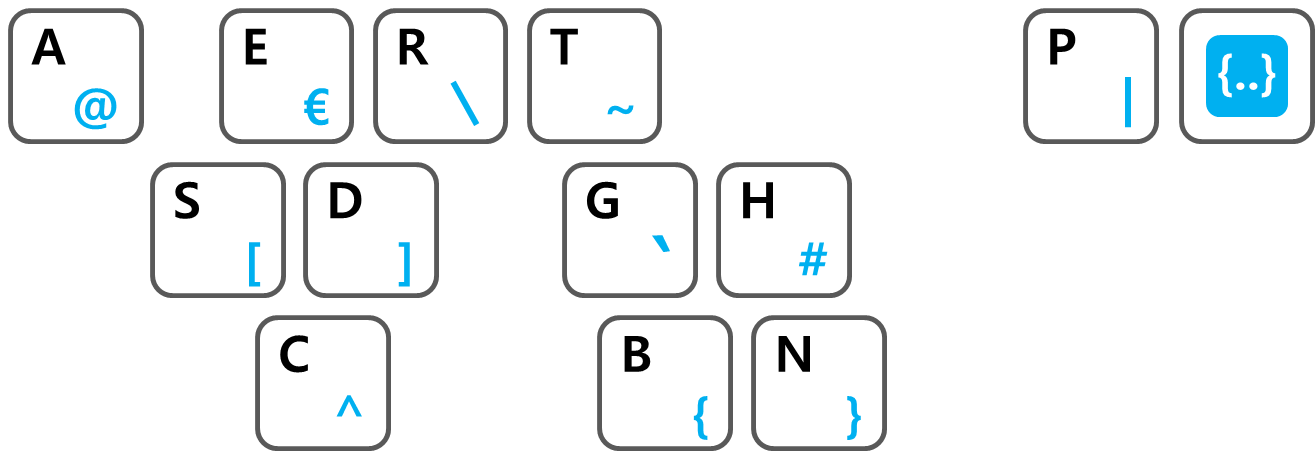
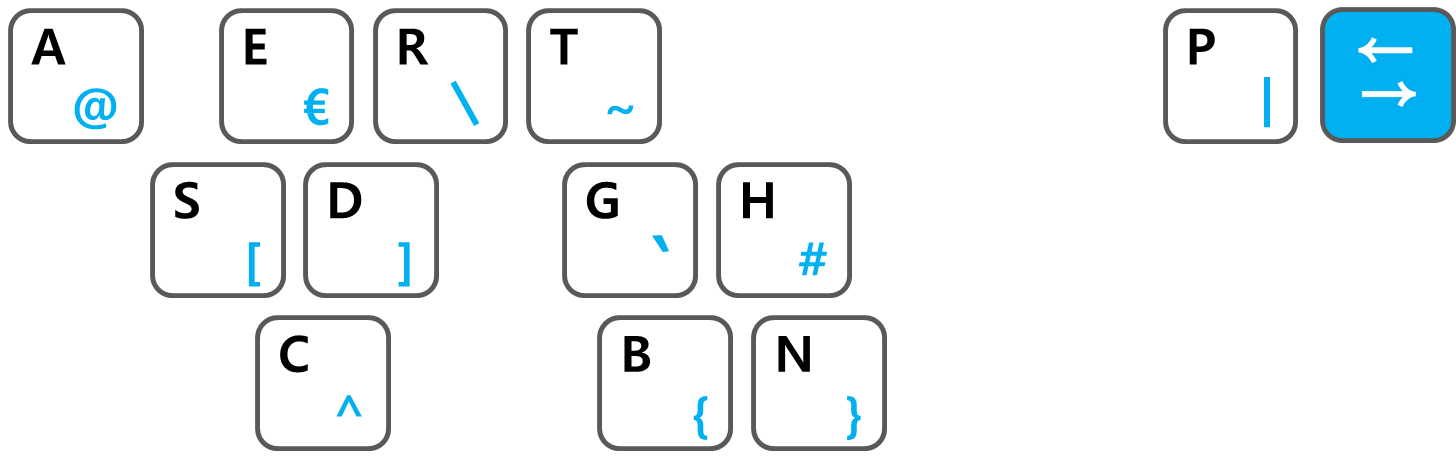
Add files via upload

diff --git a/index.html b/index.html
@@ -367,12 +367,12 @@ Si la transformation n’est pas souhaitée, appuyez simplement une fois sur Ret
       <div class="frame">
         <img class="keyIcon" src="img/dev.png" alt="q ligature key">
         <h3 class="hd">Caractères spéciaux mémorisables</h3>
-        <p class="sub">Appuyez sur la touche {..}, puis sur la touche du symbole souhaité.<br><small></small>
+        <p class="sub">Appuyez sur la touche fléchée, puis sur la touche du symbole souhaité.<br><small></small>
 		Disposition selon l’initiale de chaque alias – facile à mémoriser</p>
         <div class="rule">
           <svg class="check" viewBox="0 0 24 24" xmlns="http://www.w3.org/2000/svg"><path fill="#10b981" d="M9 16.2 4.8 12l-1.4 1.4L9 19 21 7l-1.4-1.4z"/></svg>
           <div class="ruleText">
-            Un double appui sur la touche {..} affichera la carte des touches.<br>
+            Un double appui sur la touche fléchée affichera la carte des touches.<br>
 			Désormais, tapez les symboles spéciaux sans Alt Gr.
           </div>
         </div>
@@ -434,7 +434,7 @@ Si la transformation n’est pas souhaitée, appuyez simplement une fois sur Ret
 <section id="demo">
   <div class="demoWrap">
     <div class="demoTop">
-      <div class="brand">SuperAzerty<small> Accents, chiffres, symboles et même emojis</small></div>
+      <div class="brand">SuperAzerty<small> Votre AZERTY est désormais SuperAZERTY.</small></div>
     </div>
 
     <div class="surface">
@@ -449,7 +449,11 @@ Si la transformation n’est pas souhaitée, appuyez simplement une fois sur Ret
 			</div>
 
 			<!-- demo 하단 레이아웃 이미지 -->
-		<div class="layoutBar" style="margin:18px 0 0; text-align:center;">
+		<div class="layoutBar" style="margin:-30px 0 0; text-align:center;">
+			<p style="text-align:center; color:#ccc; font-size:16px; margin:0 0 6px;">
+👉 Les touches fléchées ne sont pas des touches mortes sur le produit réel.
+</p>
+
 			<img src="img/layout.png" alt="layout" style="max-width:80%; height:auto; display:inline-block;">
 		</div>
       </div>
@@ -708,7 +712,7 @@ let bypassOnce    = null;   // { trigger: string, target: string, posAfterTrigge
 // === Emoji panel (demo only) ===
 const emojiPanel = document.getElementById('emojiPanel');
 const emojiGrid  = document.getElementById('emojiGrid');
-const EMOJIS = Array.from('😀😁😂🤣😃😄😅😉😊😍😘😜🤔🤗🤩🥳😎😭😡🧡💔💢💦👍🙏✨🔥💯✅❌🌟🎉🎁📌🍔☕🚗✈🏡🏬←→↑↓👈👉👆👇');
+const EMOJIS = Array.from('😀😁😂🤣😃😄😅😉😊😍😘😜🤔🤗🤩🥳😎😭😡🧡💔💢💦👍🙏✨🔥💯✅❌🌟🎉🎁📌🍔☕🚗✈🏡🏬※©®™👈👉👆👇');
 
 function ensureEmojiGrid() {
   if (!emojiGrid || emojiGrid.childElementCount) return;
@@ -822,6 +826,8 @@ function onEscClose(e){
   '=': '+',
   'â': '@',
   'ê': '€',
+  '^': '→',
+  '¨': '←'
 };
   if (remap[ev.key]) {
     ev.preventDefault();
